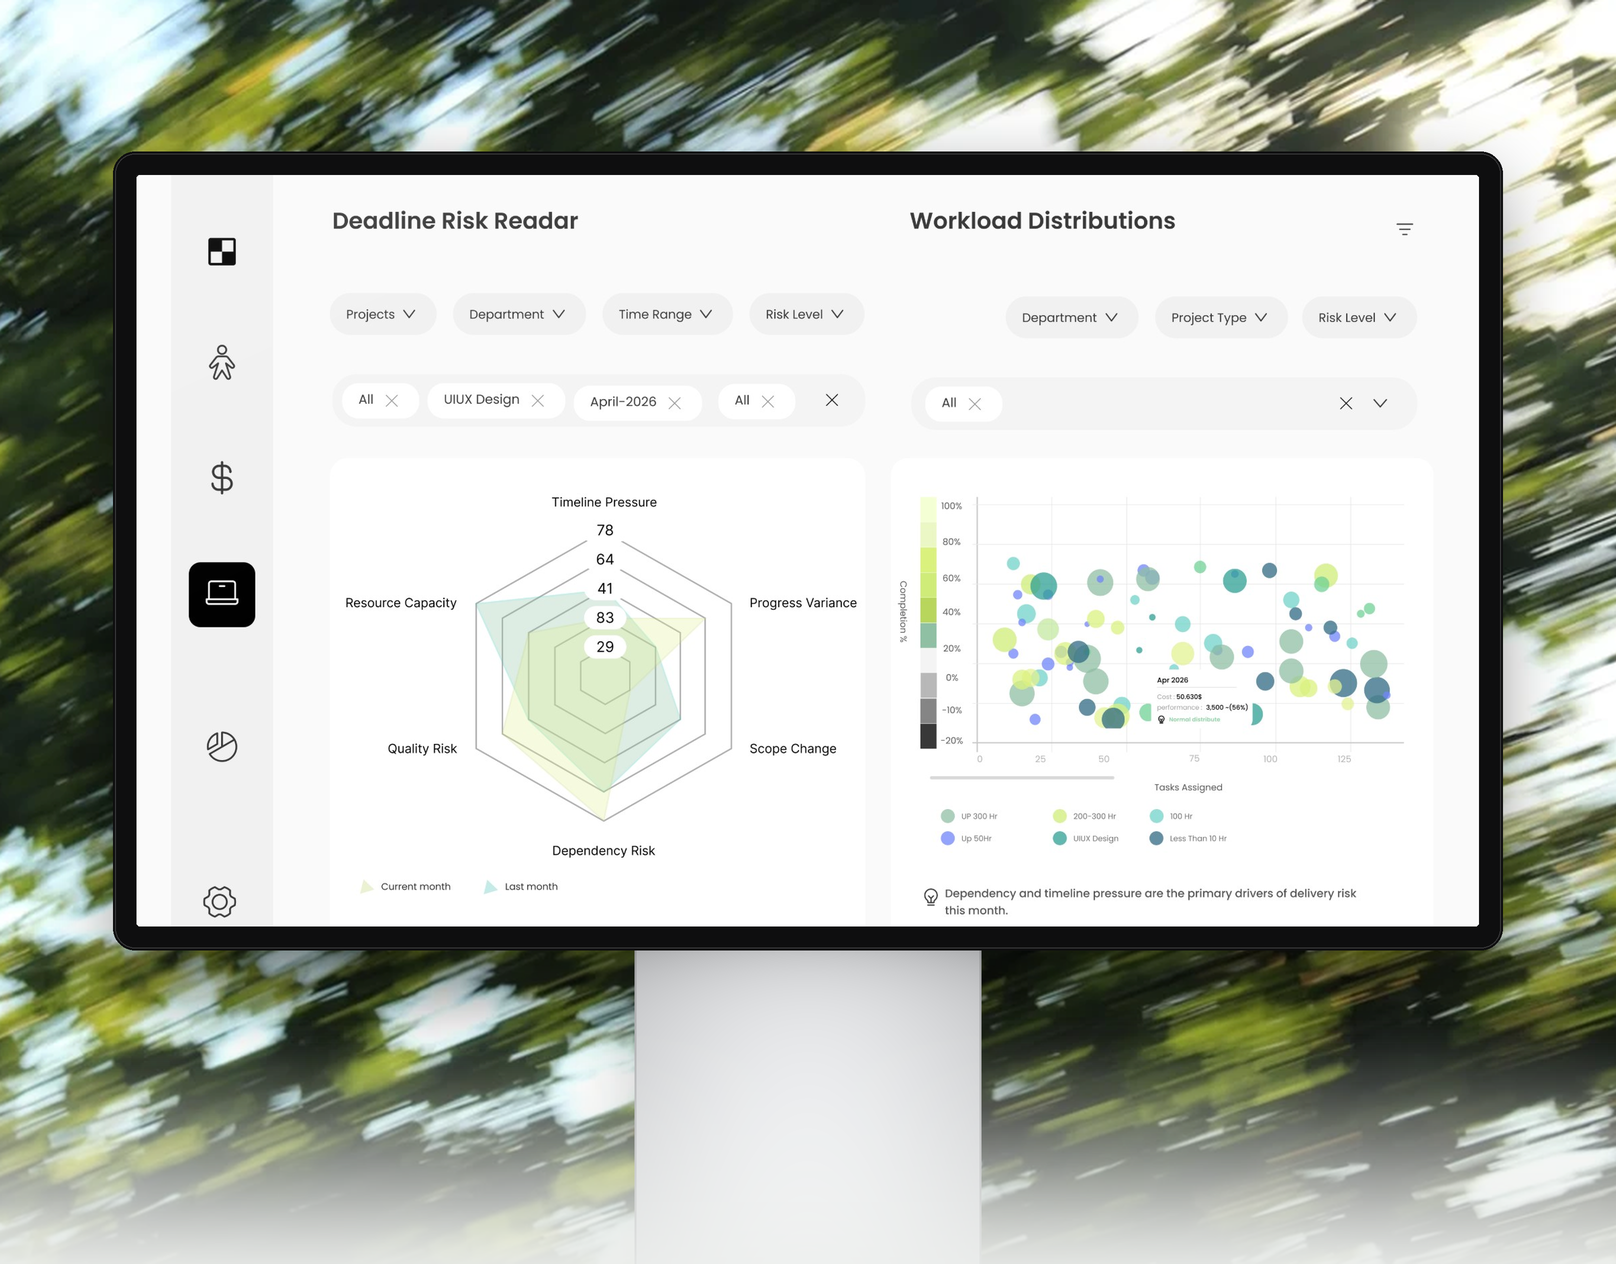
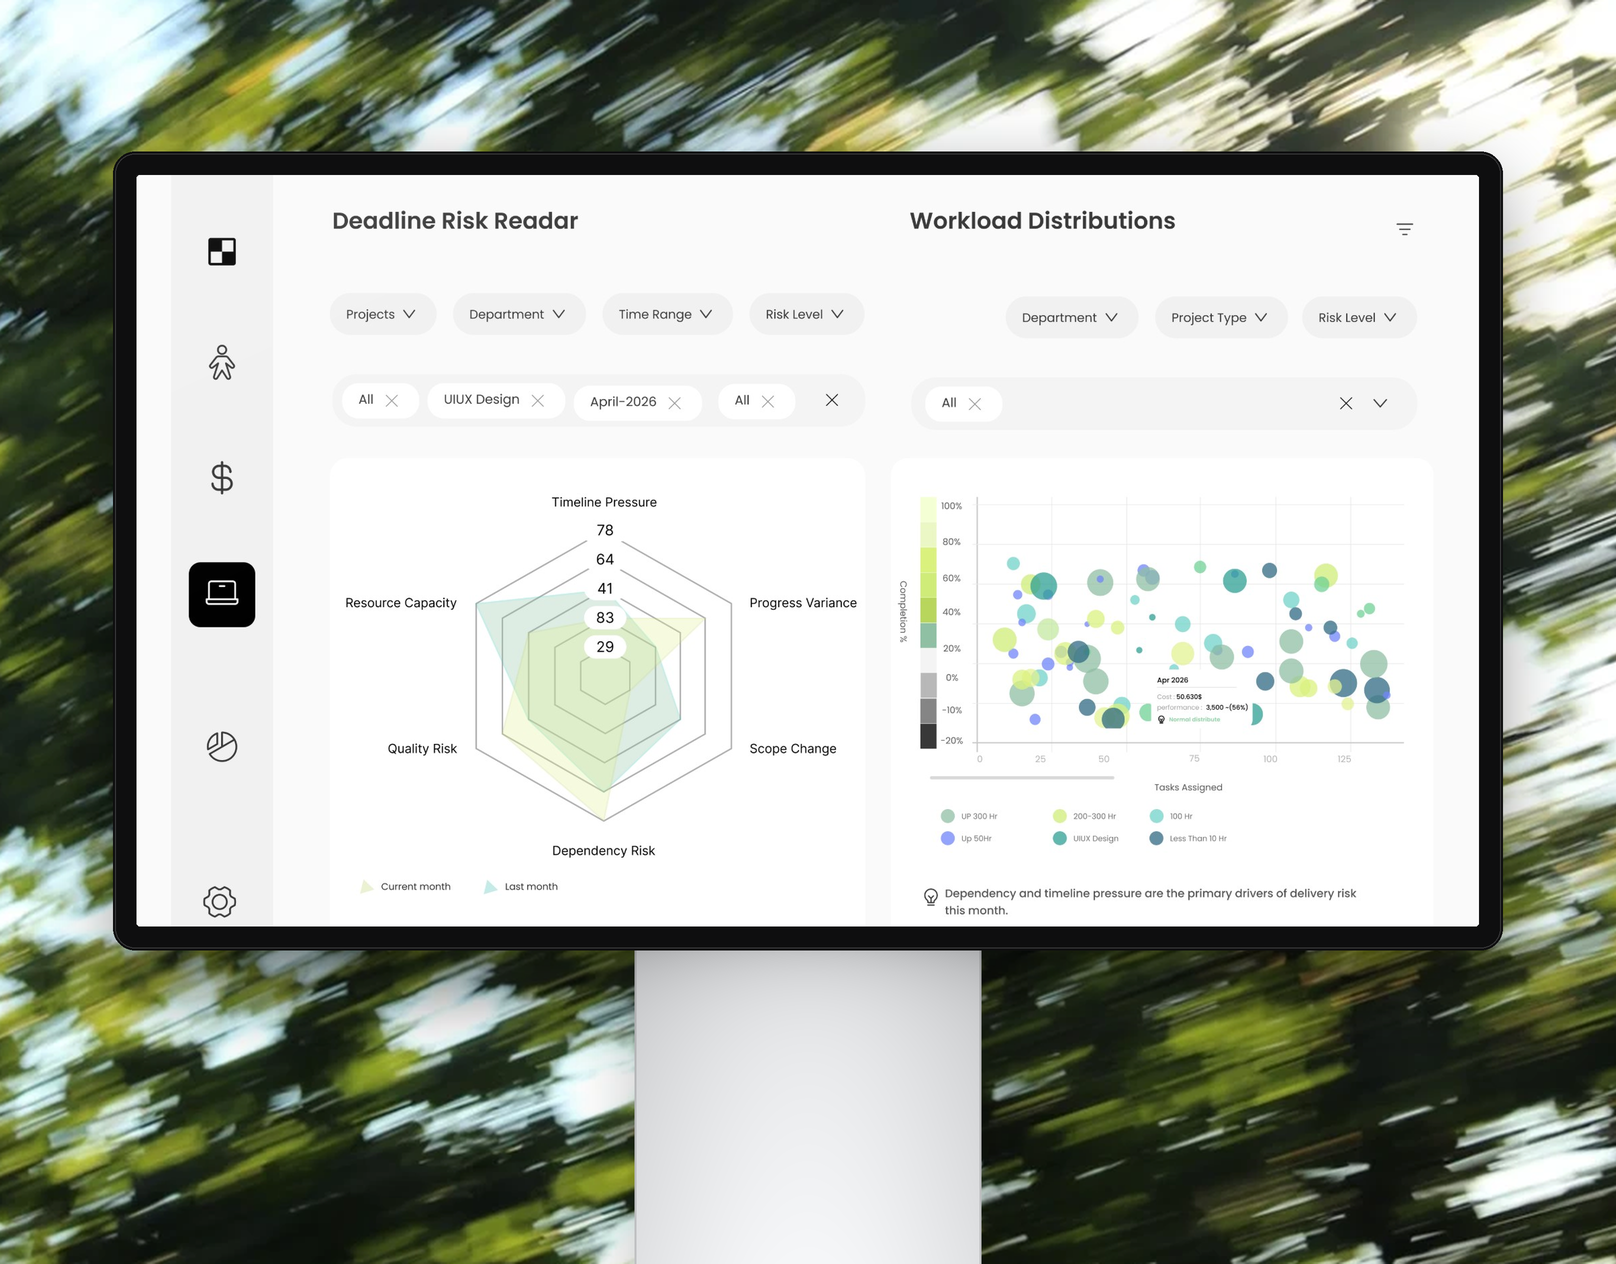
Behance cover: no floor fade; three more motion-blur backgrounds (foliage, flowers, golden grass)
Backgrounds: Unsplash photos by Reinis Brūzītis, Roma Kaiuk and Eugene Golovesov.

Claude-Session: https://claude.ai/code/session_01FdYAnoP1AuAPuCnLWf7gdc

Changed region(s): [[0.5879, 0.8331, 1.0, 1.0], [0.0, 0.8331, 0.4022, 1.0]]

diff --git a/behance-cover/cover.py b/behance-cover/cover.py
@@ -1,5 +1,5 @@
 # Behance cover: a Studio-Display-style monitor (thick black bezel, aluminium stand, soft shadow,
-# light floor fade, as in the reference) on the motion-blurred trees, its screen showing the
+# as in the reference) on a motion-blurred photo, its screen showing the
 # Foxlytics Projects dashboard cropped so both charts fill it. Drawn at 4x and reduced for clean edges.
 import sys, numpy as np
 from PIL import Image, ImageDraw, ImageFilter
@@ -7,6 +7,17 @@ I = '/tmp/claude-0/-home-user-claude-Ai-website-1/fd49522e-f0ff-52ed-b6c7-08cca4
 W, H = 1616, 1264; SS = 2                      # output size; supersampling for the shapes
 w, h = W * SS, H * SS
 
+def streak(img, angle=-24, length=0.07):
+    """the reference's look: a long diagonal motion blur, as if the camera swept past"""
+    big = img.rotate(-angle, Image.BICUBIC, expand=True)
+    a = np.asarray(big).astype(np.float32); L = max(3, int(img.width * length)); k = np.ones(L) / L
+    from scipy import ndimage
+    a = ndimage.convolve1d(a, k, axis=1, mode='reflect')
+    out = Image.fromarray(a.clip(0, 255).astype(np.uint8)).rotate(angle, Image.BICUBIC)
+    l, t = (out.width - img.width) // 2, (out.height - img.height) // 2
+    return out.crop((l, t, l + img.width, t + img.height))
+
+SRC = sys.argv[2] if len(sys.argv) > 2 else None        # another photo, given the same motion blur
 # background: the trees, minus the screenshot's dark rounded border; the slider card in the middle is
 # replaced by blurred surroundings (the monitor covers it, this only keeps its edges from showing)
 bg = Image.open(I + '109.webp').convert('RGB').crop((9, 9, 1447, 793))
@@ -18,6 +29,8 @@ for _ in range(3):                                       # pull the surroundings
     fill = np.asarray(Image.fromarray(a2.clip(0, 255).astype(np.uint8)).filter(ImageFilter.GaussianBlur(40))).astype(np.float32)
 a[y0:y1, x0:x1] = fill[y0:y1, x0:x1]
 bg = Image.fromarray(a.clip(0, 255).astype(np.uint8))
+if SRC and '/' in SRC: bg = Image.open(SRC).convert('RGB')       # a photo already shot with motion blur
+elif SRC: bg = streak(Image.open(I + SRC).convert('RGB'))
 k = max(w / bg.width, h / bg.height)
 bg = bg.resize((round(bg.width * k), round(bg.height * k)), Image.LANCZOS)
 bg = bg.crop(((bg.width - w) // 2, (bg.height - h) // 2, (bg.width - w) // 2 + w, (bg.height - h) // 2 + h))
@@ -35,20 +48,13 @@ d.rounded_rectangle((MX + 10 * SS, MY + 30 * SS, MX + MW - 10 * SS, MY + MH + 40
 d.rectangle((NX + 6 * SS, MY + MH, NX + NW + 30 * SS, h), fill=(0, 0, 0, 70))
 sh = sh.filter(ImageFilter.GaussianBlur(36 * SS)); canvas.alpha_composite(sh)
 
-# light floor fade at the bottom, as in the reference
-fade = np.zeros((h, w, 4), np.uint8); fade[..., :3] = (236, 238, 236)
-yy = np.linspace(0, 1, h)[:, None]
-fade[..., 3] = (np.clip((yy - 0.80) / 0.20, 0, 1) ** 1.6 * 200).astype(np.uint8)
-canvas.alpha_composite(Image.fromarray(fade))
-
-# stand column: brushed aluminium, darker just under the monitor, fading into the floor light
+# stand column: brushed aluminium, darker just under the monitor
 st = np.zeros((h - MY - MH, NW, 4), np.float32)
 xs = np.linspace(0, 1, NW)[None, :]; ys = np.linspace(0, 1, h - MY - MH)[:, None]
 tone = 206 + 22 * np.sin(np.pi * xs) - 34 * np.exp(-ys * 9) + 18 * ys
 st[..., 0] = tone; st[..., 1] = tone + 1; st[..., 2] = tone + 3; st[..., 3] = 255
 st[:, :2 * SS, :3] *= 0.86; st[:, -2 * SS:, :3] *= 0.86          # edges
 canvas.alpha_composite(Image.fromarray(st.clip(0, 255).astype(np.uint8)), (NX, MY + MH))
-canvas.alpha_composite(Image.fromarray(fade))                       # floor light over the stand foot
 
 # bezel
 bz = layer(); d = ImageDraw.Draw(bz)
